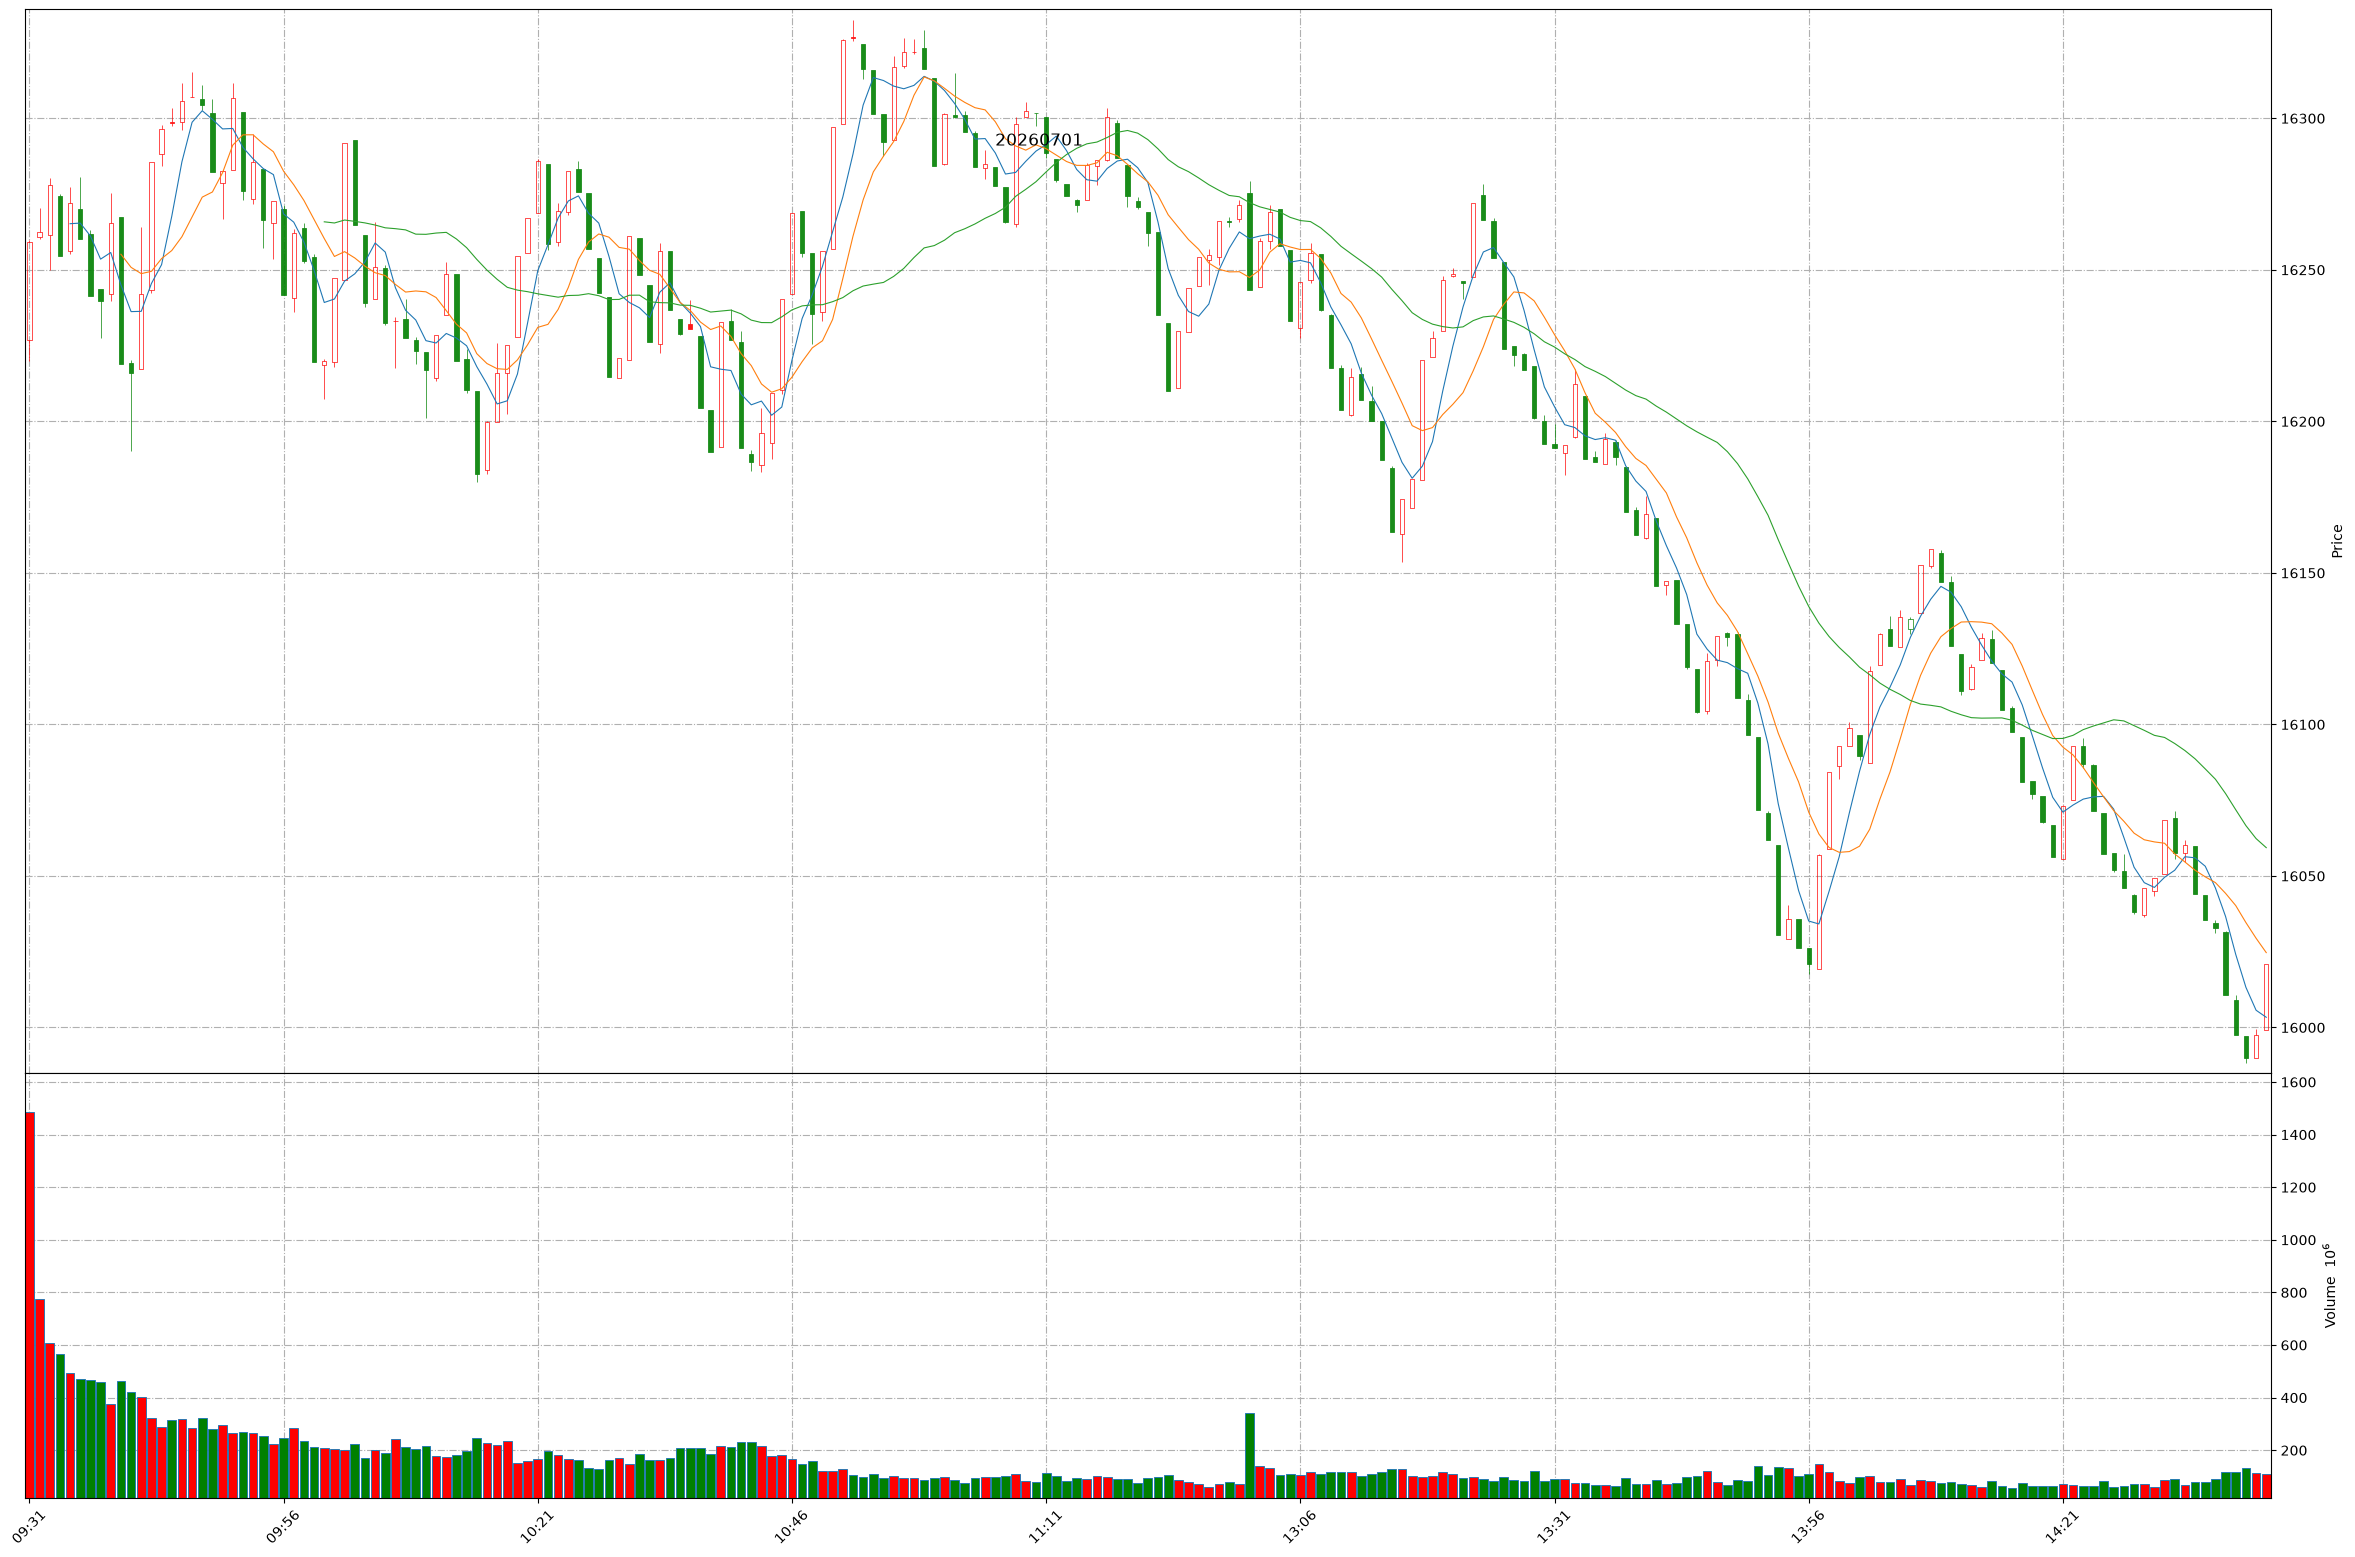
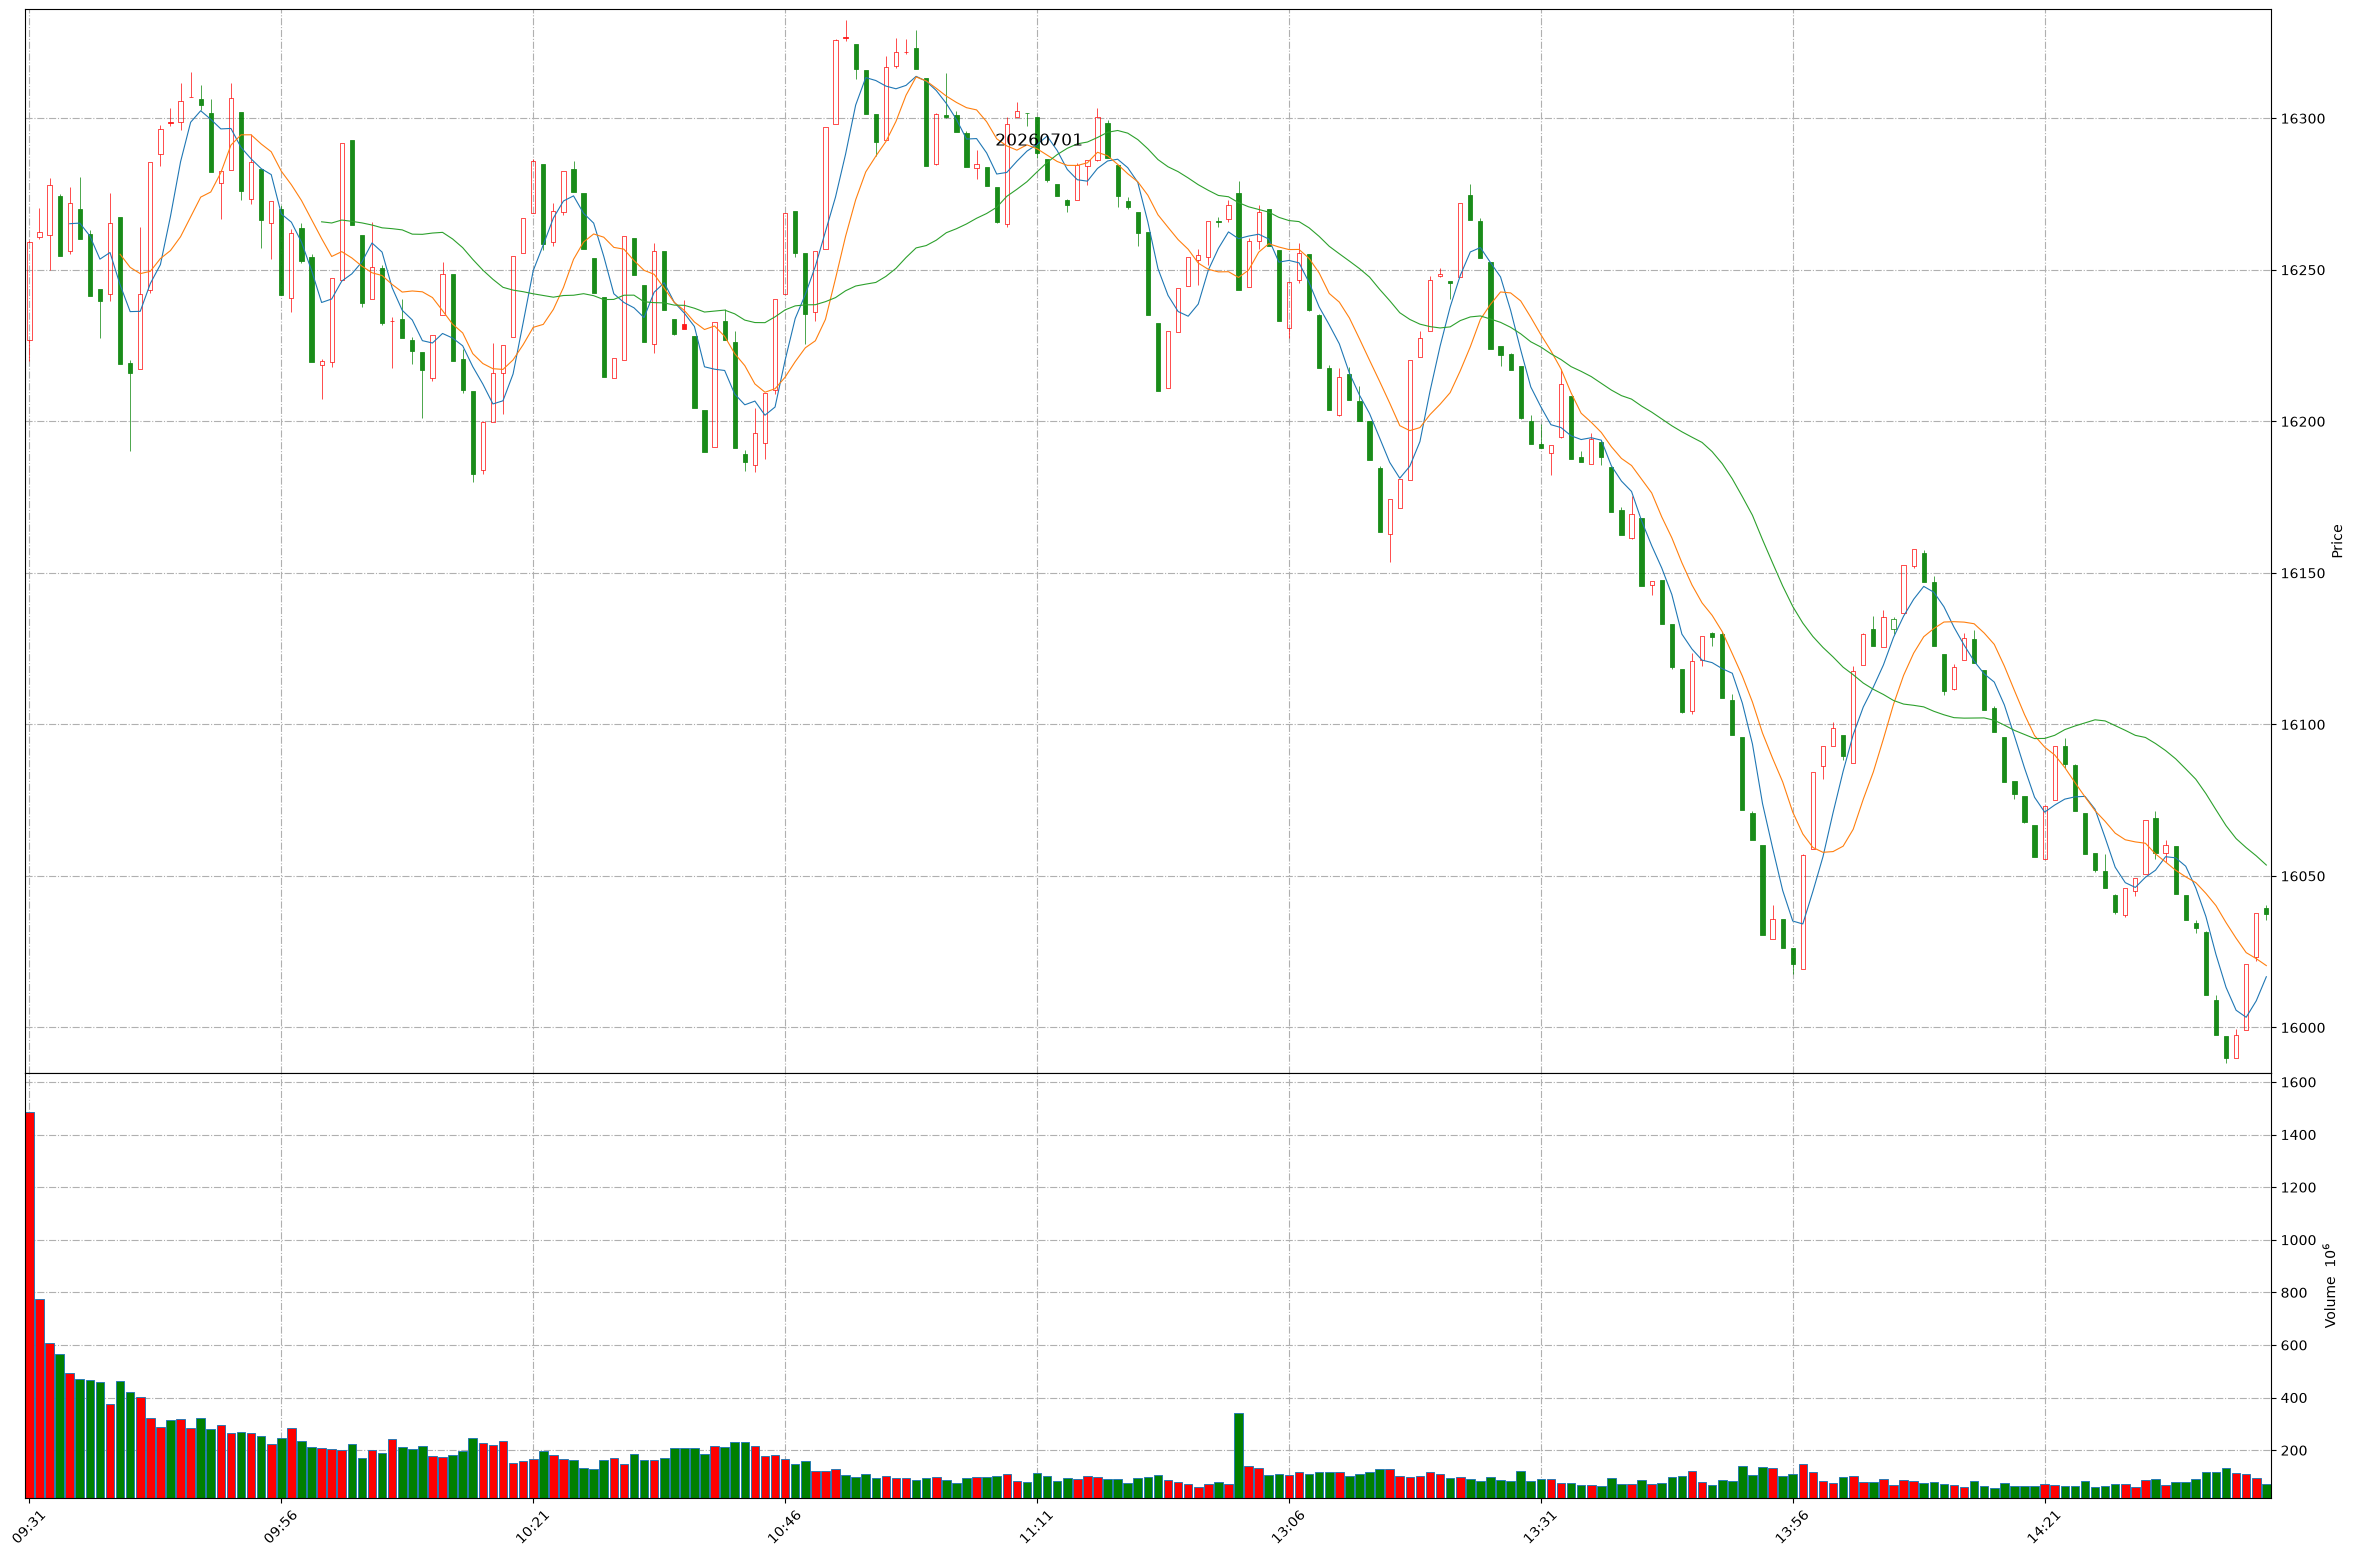
Github action update at 2026-07-01 14:42:55.

diff --git a/README.md b/README.md
@@ -1,11 +1,11 @@
 
 # Daily-A-share-market-quotes 每日 A 股指数（5min 更新）- 20260701
 
-### 上证指数 20260701 14:41
+### 上证指数 20260701 14:42
 ![](./fig/2026/7/20260701-sh000001.png)
 
-### 深证成指 20260701 14:41
+### 深证成指 20260701 14:42
 ![](./fig/2026/7/20260701-sz399001.png)
 
-### 北证50 20260701 14:41
+### 北证50 20260701 14:42
 ![](./fig/2026/7/20260701-bj899050.png)
